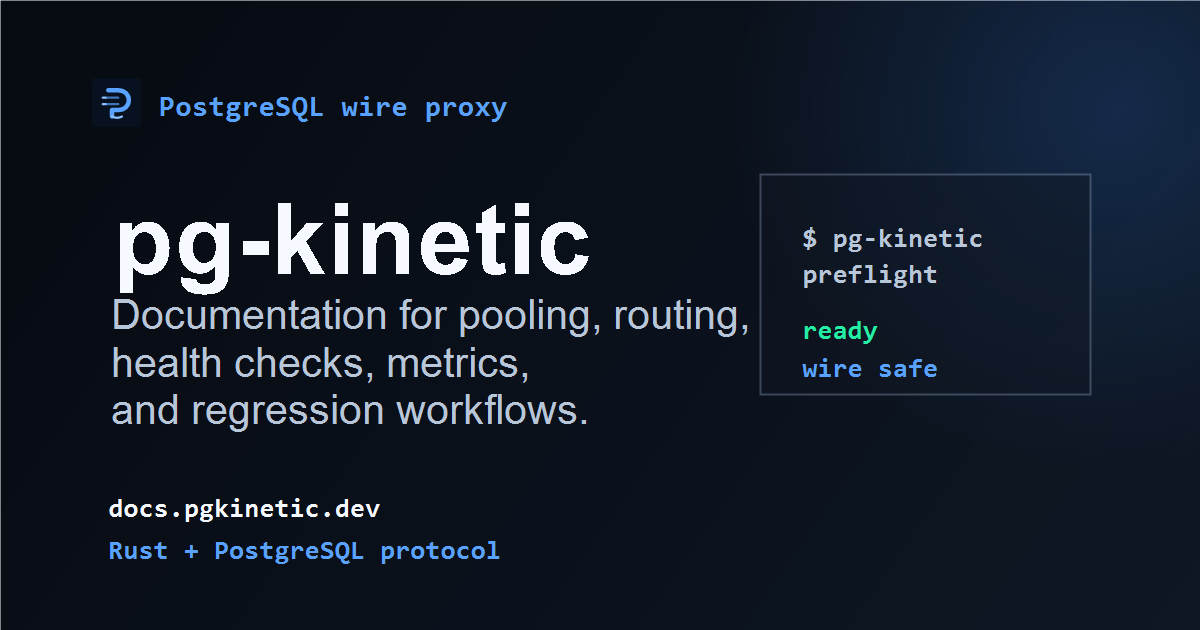
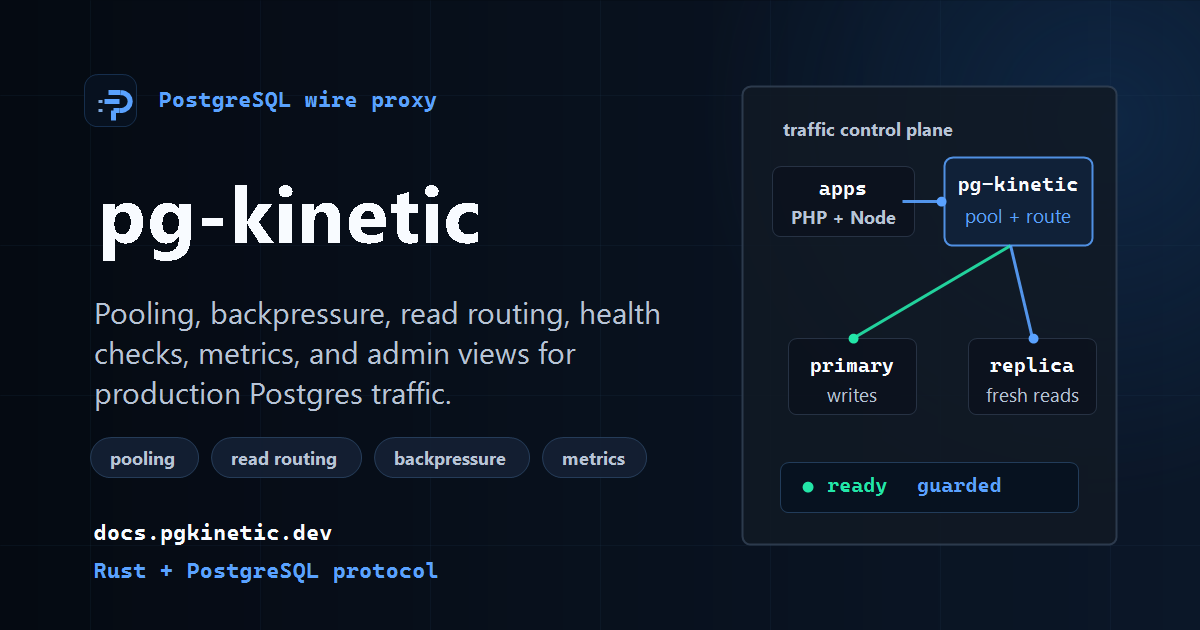
docs: add readme visuals

diff --git a/README.md b/README.md
@@ -20,6 +20,31 @@
 
 **Keep PostgreSQL responsive under connection spikes.** pg-kinetic is a drop-in Rust PostgreSQL wire proxy: keep your driver and SQL, then add transaction pooling, route-level backpressure, read routing, and operator-visible health.
 
+## Traffic Flow
+
+```mermaid
+flowchart LR
+  app["Application drivers<br/>PHP / Node / Java / Go / Rust"] --> proxy["pg-kinetic<br/>pooling + backpressure"]
+  proxy --> primary["Primary<br/>writes + unsafe reads"]
+  proxy --> replica["Replica<br/>fresh safe reads"]
+  proxy --> metrics["Prometheus<br/>metrics"]
+  proxy --> admin["Admin listener<br/>SHOW POOLS / SHOW CLIENTS"]
+```
+
+## Operator Snapshot
+
+The admin listener exposes PostgreSQL-protocol views, so operators can inspect pressure without a separate dashboard.
+
+```text
+SHOW POOLS;
+route     state  clients  waiting  primary  replica
+default   ready  128      0        12/64    8/32
+
+SHOW BACKPRESSURE;
+route     queue  checkout_p95  action
+default   0      4ms           accept
+```
+
 ## 🚀 Install
 
 Use the published container image for a configured host: